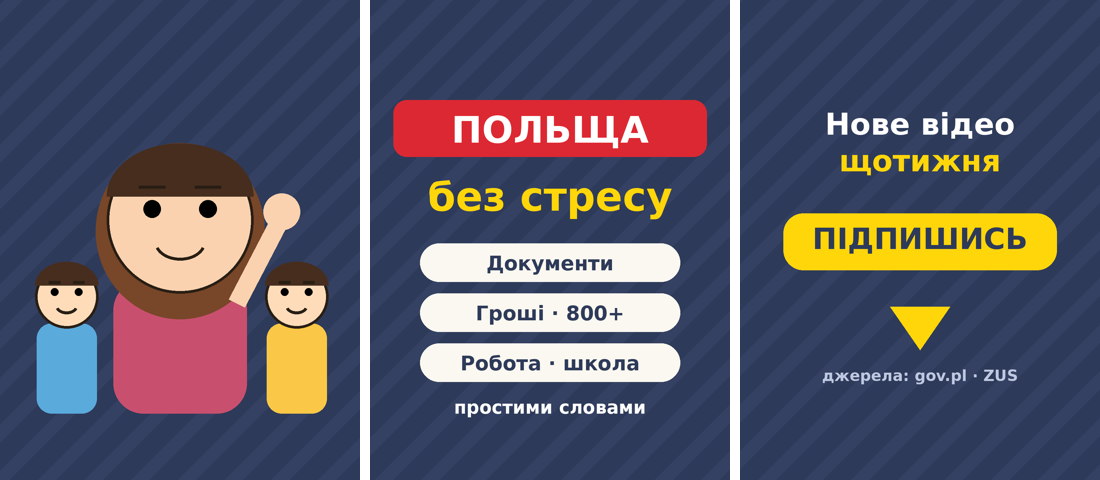
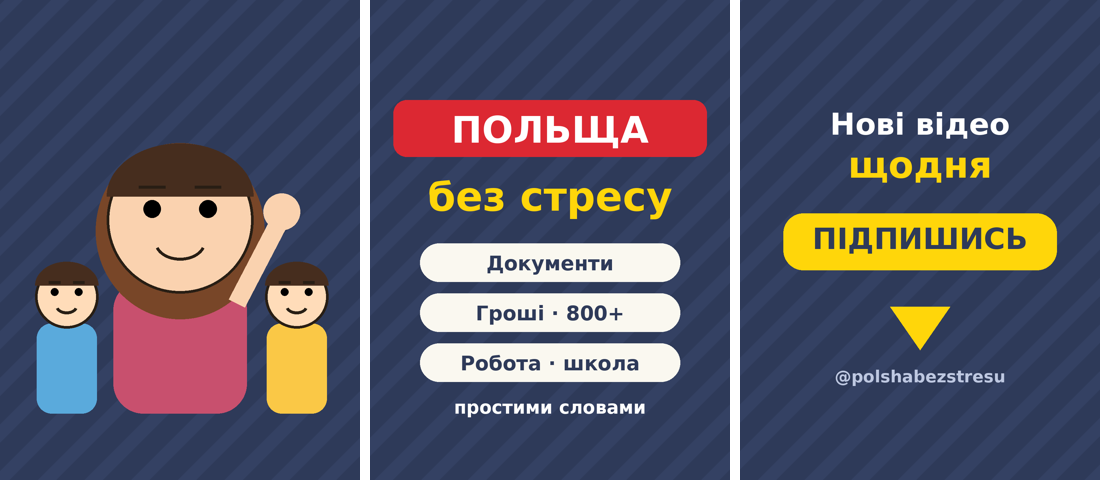
Brand: wide TikTok profile backgrounds (16:9, 3:1), 'videos daily' text, no sources line
Claude-Session: https://claude.ai/code/session_01JrvJqNRQX4Ker6PLf47aa9

Changed region(s): [[0.7418, 0.2188, 0.9273, 0.375], [0.7418, 0.75, 0.9273, 0.8125]]

diff --git a/polsha-bez-stresu/brand/make_brand.py b/polsha-bez-stresu/brand/make_brand.py
@@ -66,12 +66,12 @@ for i,t in enumerate(["Документи","Гроші · 800+","Робота ·
 ctext(d,cy+470,"простими словами",font(54),"white",cx=mx)
 # right: subscribe
 rx=2*W+W//2
-ctext(d,cy-400,"Нове відео",font(90),"white",cx=rx)
-ctext(d,cy-290,"щотижня",font(90),YEL,cx=rx)
+ctext(d,cy-400,"Нові відео",font(90),"white",cx=rx)
+ctext(d,cy-290,"щодня",font(110),YEL,cx=rx)
 d.rounded_rectangle((2*W+130,cy-80,3*W-130,cy+90),60,fill=YEL)
 ctext(d,cy-55,"ПІДПИШИСЬ",font(88),NAVY,cx=rx)
 d.polygon([(rx-90,cy+200),(rx+90,cy+200),(rx,cy+330)],fill=YEL)
-ctext(d,cy+380,"джерела: gov.pl · ZUS",font(46),(190,200,225),cx=rx)
+ctext(d,cy+380,"@polshabezstresu",font(50),(190,200,225),cx=rx)
 for i in range(3):
     big.crop((i*W,0,(i+1)*W,H)).save(f"{OUT}/banner_{i+1}_of_3.png")
 # preview of profile grid (3:4 centre crop of each)
@@ -79,4 +79,33 @@ pv=Image.new("RGB",(3*360+20,480),"white")
 for i in range(3):
     tile=big.crop((i*W,240,(i+1)*W,1680)).resize((360,480)); pv.paste(tile,(i*370,0))
 pv.save(f"{OUT}/_pv_banner_grid.png")
+
+# ---------- wide profile background (content drawn on 3000x1000, centred into each size)
+def content():
+    C=Image.new("RGBA",(3000,1000),(0,0,0,0)); d=ImageDraw.Draw(C)
+    cx,cy=470,430
+    d.rounded_rectangle((cx-150,cy+170,cx+150,cy+470),70,fill=PINK)
+    mom(d,cx,cy,165)
+    d.line((cx+130,cy+230,cx+235,cy+30),fill=(250,210,175),width=44); d.ellipse((cx+195,cy-30,cx+285,cy+60),fill=(250,210,175))
+    for kx,col in ((cx-270,(90,170,220)),(cx+300,(250,200,70))):
+        d.rounded_rectangle((kx-75,cy+330,kx+75,cy+520),38,fill=col); face(d,kx,cy+265,78,"calm",1.3,skin=(255,220,185))
+    mx=1500
+    d.rounded_rectangle((mx-370,120,mx+370,290),40,fill=RED); ctext(d,140,"ПОЛЬЩА",font(118),"white",cx=mx)
+    ctext(d,320,"без стресу",font(130),YEL,cx=mx)
+    for i,t in enumerate(["Документи","Гроші · 800+","Робота · школа"]):
+        x0=mx-645+i*440; d.rounded_rectangle((x0,560,x0+410,665),52,fill=CREAM); ctext(d,591,t,font(42),NAVY,cx=x0+205)
+    ctext(d,720,"простими словами",font(56),"white",cx=mx)
+    rx=2530
+    ctext(d,170,"Нові відео",font(84),"white",cx=rx); ctext(d,275,"щодня",font(110),YEL,cx=rx)
+    d.rounded_rectangle((rx-330,470,rx+330,620),60,fill=YEL); ctext(d,500,"ПІДПИШИСЬ",font(72),NAVY,cx=rx)
+    ctext(d,680,"@polshabezstresu",font(46),(190,200,225),cx=rx)
+    return C
+CT=content()
+def wide(Wd,Hd,name):
+    bg=Image.new("RGB",(Wd,Hd),NAVY); g=ImageDraw.Draw(bg)
+    sw=max(10,Wd//60)
+    for x in range(-Hd,Wd,sw*3): g.line((x,Hd,x+Hd,0),fill=(52,65,99),width=sw)
+    sc=min(Wd*0.97/3000,Hd*0.9/1000); c=CT.resize((int(3000*sc),int(1000*sc)),Image.LANCZOS)
+    bg.paste(c,((Wd-c.width)//2,(Hd-c.height)//2),c); bg.save(f"{OUT}/{name}.png"); return bg
+pv=[wide(1920,1080,"fon_16x9_1920x1080"),wide(1500,500,"fon_3x1_1500x500")]
 print("ok")
